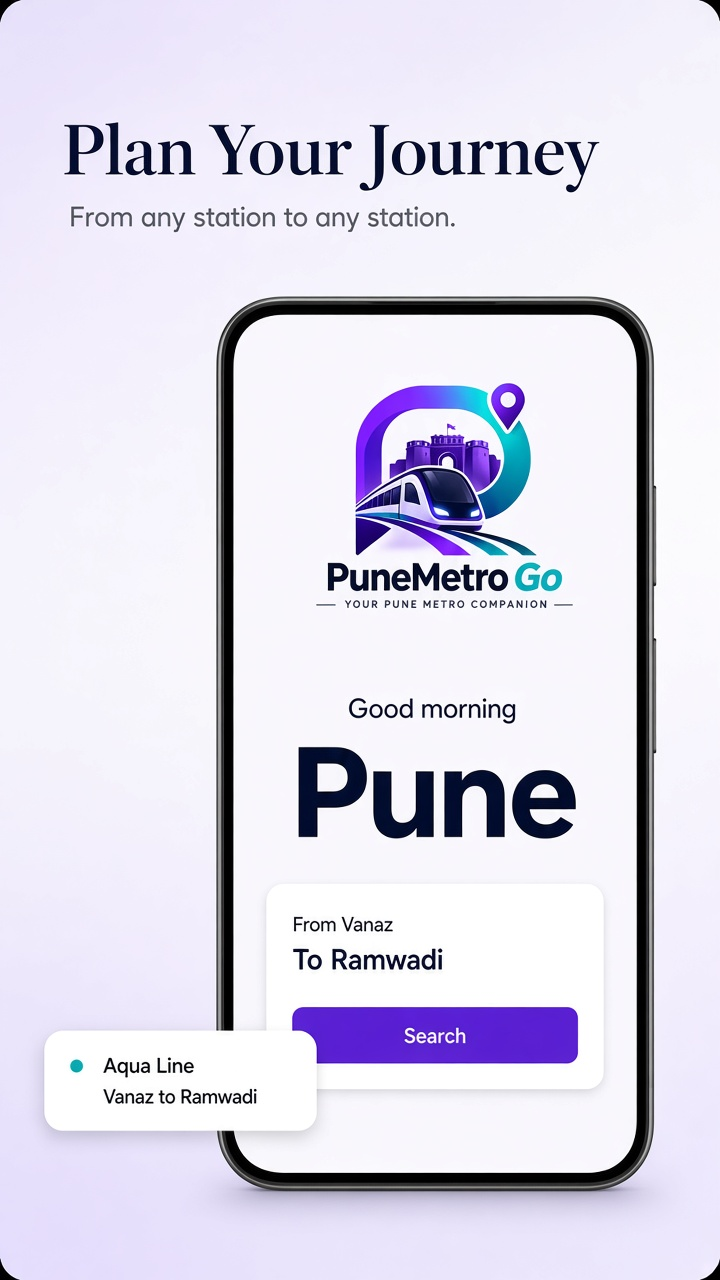
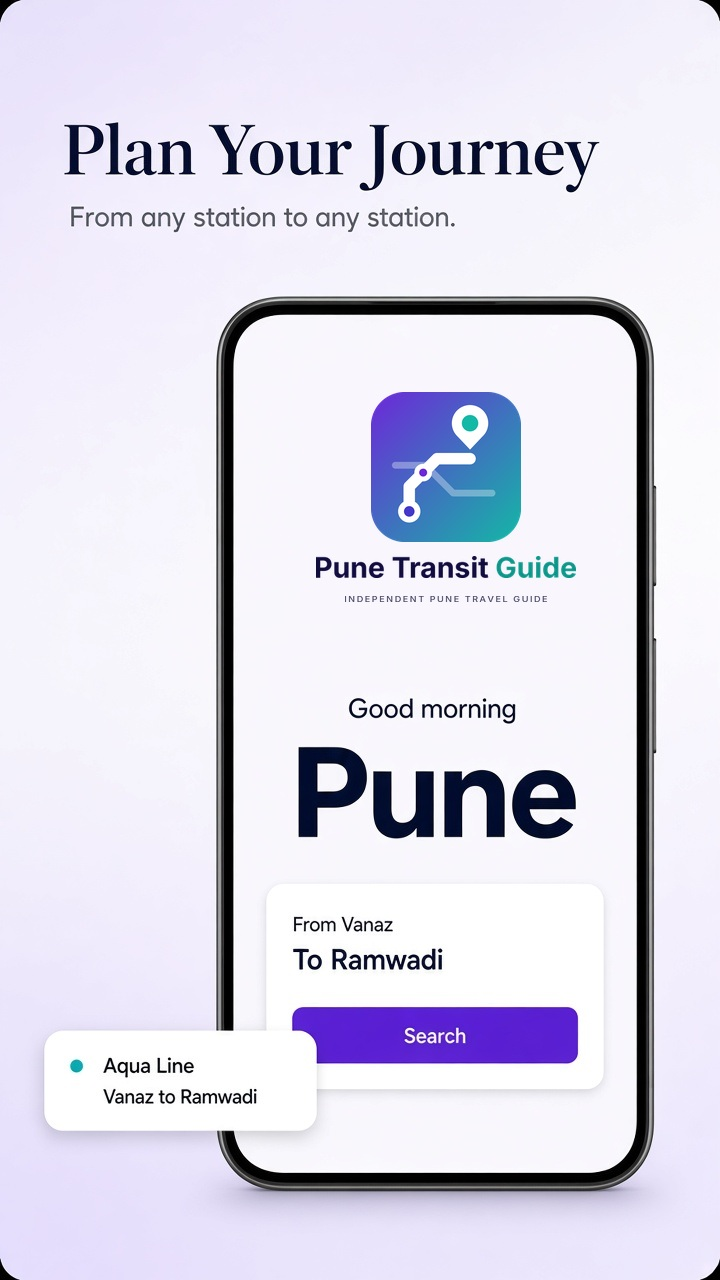
Chnages
Updated

Changed region(s): [[0.4278, 0.2812, 0.7944, 0.5]]

diff --git a/play_store/privacy-policy-page.tsx b/play_store/privacy-policy-page.tsx
@@ -1,0 +1,92 @@
+import type { Metadata } from "next"
+import { PolicyPageLayout, PolicyArticle } from "@/components/policy-page-layout"
+import { Shield } from "lucide-react"
+
+export const metadata: Metadata = {
+  title: {
+    absolute: "Privacy Policy for Pune Transit Guide",
+  },
+  description:
+    "Privacy policy for Pune Transit Guide, an independent Pune travel and metro information app for Android and iOS.",
+  robots: { index: true, follow: true },
+}
+
+const PRIVACY_HTML = `
+<div class="space-y-8">
+  <p><strong class="text-foreground">Last updated:</strong> 12 November 2026</p>
+  <p>This privacy policy explains how the mobile app Pune Transit Guide (formerly "PuneMetro Go") for Android and iOS handles information. Pune Transit Guide is an independent Pune travel and metro information app.</p>
+
+  <section class="scroll-mt-24">
+    <h2 class="text-lg font-semibold text-foreground mb-3 pb-2 border-b border-border/60">Summary</h2>
+    <ul class="list-disc pl-5">
+      <li>There is no sign-up or login. We do not collect your name, email address, phone number or date of birth.</li>
+      <li>The app does not show ads.</li>
+      <li>We do not sell or share your personal information.</li>
+    </ul>
+  </section>
+
+  <section class="scroll-mt-24">
+    <h2 class="text-lg font-semibold text-foreground mb-3 pb-2 border-b border-border/60">Location</h2>
+    <p>The app asks for your location only when you use the "Nearby stations" feature. Your location is used on your device to find the closest metro stations. It is not sent to our servers, it is not stored, and it is not tracked in the background. You can turn off location permission at any time in your phone's settings, and the rest of the app will still work.</p>
+  </section>
+
+  <section class="scroll-mt-24">
+    <h2 class="text-lg font-semibold text-foreground mb-3 pb-2 border-b border-border/60">Notifications</h2>
+    <p>If you allow notifications, the app uses Firebase Cloud Messaging to send service notices and app updates. To deliver them, Firebase creates a device token for your app installation. We do not link this token to you personally. You can turn off notifications at any time in your phone's settings.</p>
+  </section>
+
+  <section class="scroll-mt-24">
+    <h2 class="text-lg font-semibold text-foreground mb-3 pb-2 border-b border-border/60">Metro data</h2>
+    <p>Metro routes, stations, timetables and fares are downloaded from Google Cloud Firestore and saved on your phone so the app can work offline. When your device connects to these services, Google may process technical information such as your IP address, as described in Google's privacy policy.</p>
+  </section>
+
+  <section class="scroll-mt-24">
+    <h2 class="text-lg font-semibold text-foreground mb-3 pb-2 border-b border-border/60">Information stored on your device</h2>
+    <p>The app saves your settings (such as light or dark theme) and the downloaded metro data on your device. This information stays on your device and is removed when you uninstall the app.</p>
+  </section>
+
+  <section class="scroll-mt-24">
+    <h2 class="text-lg font-semibold text-foreground mb-3 pb-2 border-b border-border/60">Third-party services</h2>
+    <p>The app uses the following Google services, which have their own privacy policies:</p>
+    <ul class="list-disc pl-5 mt-3">
+      <li>Firebase Cloud Messaging (notifications)</li>
+      <li>Google Cloud Firestore (metro data)</li>
+      <li>Google Maps (city map)</li>
+    </ul>
+    <p class="mt-3">Google's privacy policy: <a href="https://policies.google.com/privacy">https://policies.google.com/privacy</a></p>
+  </section>
+
+  <section class="scroll-mt-24">
+    <h2 class="text-lg font-semibold text-foreground mb-3 pb-2 border-b border-border/60">Children</h2>
+    <p>The app is not directed at children under 13, and we do not knowingly collect personal information from children.</p>
+  </section>
+
+  <section class="scroll-mt-24">
+    <h2 class="text-lg font-semibold text-foreground mb-3 pb-2 border-b border-border/60">Changes to this policy</h2>
+    <p>Any changes to this privacy policy will be posted on this page with a new "Last updated" date.</p>
+  </section>
+
+  <section class="scroll-mt-24 rounded-xl border border-amber-500/30 bg-amber-500/10 px-4 py-4">
+    <h2 class="text-lg font-semibold text-foreground mb-3">Disclaimer</h2>
+    <p>Pune Transit Guide is an independent app. It is not affiliated with, endorsed by, or operated by Maharashtra Metro Rail Corporation Limited (MAHA-METRO), Pune Metro, or any government body. It does not sell tickets. Metro information comes from publicly available sources and can change.</p>
+  </section>
+
+  <section class="scroll-mt-24">
+    <h2 class="text-lg font-semibold text-foreground mb-3 pb-2 border-b border-border/60">Contact</h2>
+    <p>If you have any questions, suggestions or feedback, please email us at <a href="mailto:supportpunemetrogo@gmail.com">supportpunemetrogo@gmail.com</a>.</p>
+  </section>
+</div>
+`
+
+export default function PuneTransitGuidePrivacyPolicyPage() {
+  return (
+    <PolicyPageLayout
+      title="Privacy Policy for Pune Transit Guide"
+      description="How Pune Transit Guide handles user data on Android and iOS"
+      icon={<Shield className="w-6 h-6" />}
+      footerLabel="Pune Transit Guide · Privacy Policy"
+    >
+      <PolicyArticle html={PRIVACY_HTML} />
+    </PolicyPageLayout>
+  )
+}

diff --git a/lib/modules/splash/views/splash_view.dart b/lib/modules/splash/views/splash_view.dart
@@ -19,10 +19,41 @@ class SplashView extends GetView<SplashController> {
         body: Stack(
           fit: StackFit.expand,
           children: [
+            // Background scene only; logo and name are drawn below.
             Image.asset(
               AppConstants.splashAsset,
               fit: BoxFit.cover,
-              alignment: Alignment.center,
+              alignment: Alignment.bottomCenter,
+            ),
+            SafeArea(
+              child: Padding(
+                padding: const EdgeInsets.fromLTRB(24, 56, 24, 0),
+                child: Column(
+                  children: [
+                    ClipRRect(
+                      borderRadius: BorderRadius.circular(24),
+                      child: Image.asset(AppConstants.logoAsset, width: 104, height: 104),
+                    ),
+                    const SizedBox(height: 20),
+                    Text(
+                      AppConstants.appName,
+                      textAlign: TextAlign.center,
+                      style: AppTextStyles.headlineLarge.copyWith(
+                        color: AppColors.white,
+                        fontWeight: FontWeight.w800,
+                      ),
+                    ),
+                    const SizedBox(height: 8),
+                    Text(
+                      AppConstants.tagline,
+                      textAlign: TextAlign.center,
+                      style: AppTextStyles.bodyMedium.copyWith(
+                        color: AppColors.white.withValues(alpha: 0.85),
+                      ),
+                    ),
+                  ],
+                ),
+              ),
             ),
             Obx(() {
               if (controller.loading.value) {

diff --git a/lib/modules/home/views/home_view.dart b/lib/modules/home/views/home_view.dart
@@ -1,5 +1,6 @@
 import 'package:flutter/material.dart';
 import 'package:get/get.dart';
+import 'package:pune_metro_guide/app/constants/app_constants.dart';
 import 'package:pune_metro_guide/app/routes/app_routes.dart';
 import 'package:pune_metro_guide/app/theme/app_colors.dart';
 import 'package:pune_metro_guide/app/theme/app_dimensions.dart';
@@ -55,6 +56,23 @@ class HomeView extends GetView<HomeController> {
                     child: Column(
                       crossAxisAlignment: CrossAxisAlignment.start,
                       children: [
+                        Row(
+                          children: [
+                            ClipRRect(
+                              borderRadius: BorderRadius.circular(6),
+                              child: Image.asset(AppConstants.logoAsset, width: 22, height: 22),
+                            ),
+                            const SizedBox(width: 6),
+                            Text(
+                              AppConstants.appName,
+                              style: AppTextStyles.bodySmall.copyWith(
+                                color: muted,
+                                fontWeight: FontWeight.w600,
+                              ),
+                            ),
+                          ],
+                        ),
+                        const SizedBox(height: 6),
                         Text(_greeting(), style: AppTextStyles.bodyMedium.copyWith(color: muted)),
                         const SizedBox(height: 2),
                         Text('Pune', style: AppTextStyles.headlineLarge),

diff --git a/lib/modules/settings/views/settings_view.dart b/lib/modules/settings/views/settings_view.dart
@@ -37,6 +37,7 @@ class SettingsView extends GetView<SettingsController> {
               child: Column(
                 children: [
                   const PmLogo(width: 168),
+
                   const SizedBox(height: 12),
                   Text(AppConstants.appName, style: AppTextStyles.headlineMedium),
                   const SizedBox(height: 4),
@@ -83,7 +84,7 @@ class SettingsView extends GetView<SettingsController> {
                       icon: Icons.info_outline,
                       title: 'About',
                       body:
-                          'PuneMetro Go helps passengers read lines, stations, service windows, and journey options. It does not show live train positions.',
+                          'Pune Transit Guide helps passengers read metro lines, stations, timetables, fares, and journey options. It does not show live train positions.\n\n${AppConstants.disclaimer}',
                     ),
                   ),
                   Divider(height: 1, color: AppColors.border(brightness)),

diff --git a/lib/app/constants/app_constants.dart b/lib/app/constants/app_constants.dart
@@ -1,9 +1,11 @@
 class AppConstants {
   const AppConstants._();
 
-  static const String appName = 'PuneMetro Go';
-  static const String tagline = 'Your Pune Metro Companion';
-  static const String logoAsset = 'assets/data/PuneMetroGo.png';
+  static const String appName = 'Pune Transit Guide';
+  static const String tagline = 'Independent Pune travel and metro information';
+  static const String disclaimer =
+      'Pune Transit Guide is an independent app. It is not affiliated with, endorsed by, or operated by Maha Metro (MAHA-METRO), Pune Metro, or any government body. This app does not sell tickets and does not show live trains. Always confirm timings and fares with official sources.';
+  static const String logoAsset = 'assets/data/app_emblem.png';
   static const String splashAsset = 'assets/data/splash_screen.png';
   static const String databaseName = 'pune_metro.db';
   static const int databaseVersion = 1;

diff --git a/lib/modules/shell/controllers/shell_controller.dart b/lib/modules/shell/controllers/shell_controller.dart
@@ -1,5 +1,6 @@
 import 'package:flutter/cupertino.dart';
 import 'package:get/get.dart';
+import 'package:pune_metro_guide/app/constants/app_constants.dart';
 import 'package:pune_metro_guide/app/widgets/app_update_dialog.dart';
 import 'package:pune_metro_guide/data/services/app_release_service.dart';
 import 'package:shared_preferences/shared_preferences.dart';
@@ -48,9 +49,7 @@ class ShellController extends GetxController {
         title: const Text('Disclaimer'),
         content: const Padding(
           padding: EdgeInsets.only(top: 8),
-          child: Text(
-            'PuneMetro Go is an independent guide. It is not the official Maha Metro or Pune Metro app. This app does not sell tickets and does not show live trains.',
-          ),
+          child: Text(AppConstants.disclaimer),
         ),
         actions: [
           CupertinoDialogAction(

diff --git a/lib/data/services/messaging_service.dart b/lib/data/services/messaging_service.dart
@@ -61,7 +61,7 @@ class MessagingService {
           const AndroidNotificationChannel(
             campaignChannelId,
             'Campaigns',
-            description: 'Messages sent to PuneMetro Go',
+            description: 'Messages sent to Pune Transit Guide',
             importance: Importance.high,
           ),
         );
@@ -81,7 +81,7 @@ class MessagingService {
         android: AndroidNotificationDetails(
           campaignChannelId,
           'Campaigns',
-          channelDescription: 'Messages sent to PuneMetro Go',
+          channelDescription: 'Messages sent to Pune Transit Guide',
           importance: Importance.high,
           priority: Priority.high,
           icon: '@mipmap/ic_launcher',

diff --git a/lib/modules/explore/views/explore_view.dart b/lib/modules/explore/views/explore_view.dart
@@ -151,7 +151,7 @@ class _ExploreBanner extends StatelessWidget {
           Text('Explore Pune', style: AppTextStyles.headlineLarge.copyWith(color: AppColors.white)),
           const SizedBox(height: 6),
           Text(
-            'Discover amazing places around Pune Metro.',
+            'Discover places near Pune metro stations.',
             style: AppTextStyles.bodyMedium.copyWith(color: AppColors.white.withValues(alpha: 0.92)),
           ),
         ],

diff --git a/lib/models/app_release_config.dart b/lib/models/app_release_config.dart
@@ -69,8 +69,8 @@ class AppReleaseConfig {
       return value;
     }
     return maintenance
-        ? 'PuneMetro Go is unavailable right now. Please try again later.'
-        : 'A newer version of PuneMetro Go is ready.';
+        ? 'Pune Transit Guide is unavailable right now. Please try again later.'
+        : 'A newer version of Pune Transit Guide is ready.';
   }
 }
 

diff --git a/lib/modules/shell/views/more_view.dart b/lib/modules/shell/views/more_view.dart
@@ -19,7 +19,7 @@ class MoreView extends StatelessWidget {
 
       body: ListView(
         children: [
-          const PmLogo(width: 160),
+          // const PmLogo(width: 160),
           const SizedBox(height: 20),
           Padding(
             padding: const EdgeInsets.symmetric(horizontal: 16, vertical: 8),

diff --git a/lib/app/theme/app_colors.dart b/lib/app/theme/app_colors.dart
@@ -1,6 +1,6 @@
 import 'package:flutter/material.dart';
 
-/// Brand tokens for PuneMetro Go.
+/// Brand tokens for Pune Transit Guide.
 /// Metro line colours stay on each line record and are not defined here.
 class AppColors {
   const AppColors._();

diff --git a/play_store/store_listing.md b/play_store/store_listing.md
@@ -1,0 +1,50 @@
+# Play Store listing: Pune Transit Guide
+
+## App name (30 chars max)
+Pune Transit Guide
+
+## Short description (80 chars max)
+Plan Pune metro journeys with routes, stations, timetables and fare information.
+
+## Full description (plain text, paste as-is into Play Console)
+
+```text
+Independent Pune travel and metro guide
+
+Plan a metro trip in Pune. Look up metro routes, the metro stations on each line, a city map, the published train timetable and metro fares.
+
+Key features
+
+Route planner. Choose two stations and see the line, the stations in order, and an estimated journey time. The time is spread from the line's published end-to-end duration. It is not a live arrival.
+
+Another route, when one exists. If there is a second way to travel, the app can show it.
+
+City map. Follow one line at a time, with numbered stops and station details.
+
+Nearby stations. When you are in Pune, the app can list the closest stations from your location. This stays hidden when you are more than 100 km from Pune.
+
+Train timetable. See the published first train, last train, and how often trains run. This is not a departure time for every station.
+
+Metro fares. A fare is shown only when a verified fare is stored. If none is available, the app says so instead of guessing a price.
+
+Saved on your phone. After the metro data has loaded once, you can look it up again without a connection. The first open needs the internet.
+
+Light and dark theme. The app opens in the light theme. You can switch it on the home screen.
+
+Why use it
+
+- Simple screens for planning, lines, the map, and the timetable
+- Covers Pune Metro lines, stations and published timings in one place
+- No made-up fares, live trains, or station-by-station departure board
+
+Notes
+
+The map is for information only. Station positions and the drawn line can be incomplete, and the app is not responsible for a wrong pin or a wrong turn. Always check official sources before you travel.
+
+Disclaimer
+
+Pune Transit Guide is an independent app. It is not an official app of Maha Metro (MAHA-METRO) or Pune Metro, and it is not affiliated with, endorsed by, or operated by any government body or metro operator. It does not sell tickets. Timetable, fare and station details come from publicly available sources and can change. All trademarks belong to their respective owners.
+
+Privacy Policy
+https://www.snehvidya.com/punemetrogo/privacy-policy
+```
